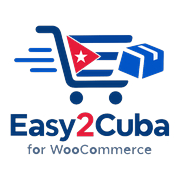
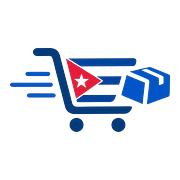
Icono de inicio (iPhone): carrito sin fondo, sin partes blancas
Claude-Session: https://claude.ai/code/session_01EWhmGeABX6mTrDuc7dUCjf

diff --git a/docs/index.html b/docs/index.html
@@ -6,7 +6,7 @@
 <title>Easy2Cuba for WooCommerce · La forma más fácil de vender y enviar a Cuba</title>
 <meta name="description" content="La forma más fácil de vender y enviar a Cuba. Checkout para WooCommerce pensado para vender desde cualquier país y enviar a Cuba: provincias y municipios, envío por provincia y PDF de entrega automático. Gratis. Por GMETI.">
 <link rel="icon" href="img/favicon.png">
-<link rel="apple-touch-icon" href="img/apple-touch-icon.png?v=2">
+<link rel="apple-touch-icon" href="img/apple-touch-icon.png?v=3">
 <link rel="manifest" href="manifest.webmanifest">
 <meta name="apple-mobile-web-app-title" content="Easy2Cuba">
 <meta name="theme-color" content="#04397a">

diff --git a/docs/demo/index.html b/docs/demo/index.html
@@ -6,7 +6,7 @@
 <meta name="viewport" content="width=device-width, initial-scale=1">
 <meta name="description" content="La forma más fácil de vender y enviar a Cuba. Prueba el checkout de Easy2Cuba for WooCommerce: quién compra, quién recibe en Cuba, provincias, municipios y envío por provincia.">
 <link rel="icon" href="../img/favicon.png">
-<link rel="apple-touch-icon" href="../img/apple-touch-icon.png?v=2">
+<link rel="apple-touch-icon" href="../img/apple-touch-icon.png?v=3">
 <link rel="manifest" href="../manifest.webmanifest">
 <meta name="apple-mobile-web-app-title" content="Easy2Cuba">
 <meta name="theme-color" content="#04397a">
